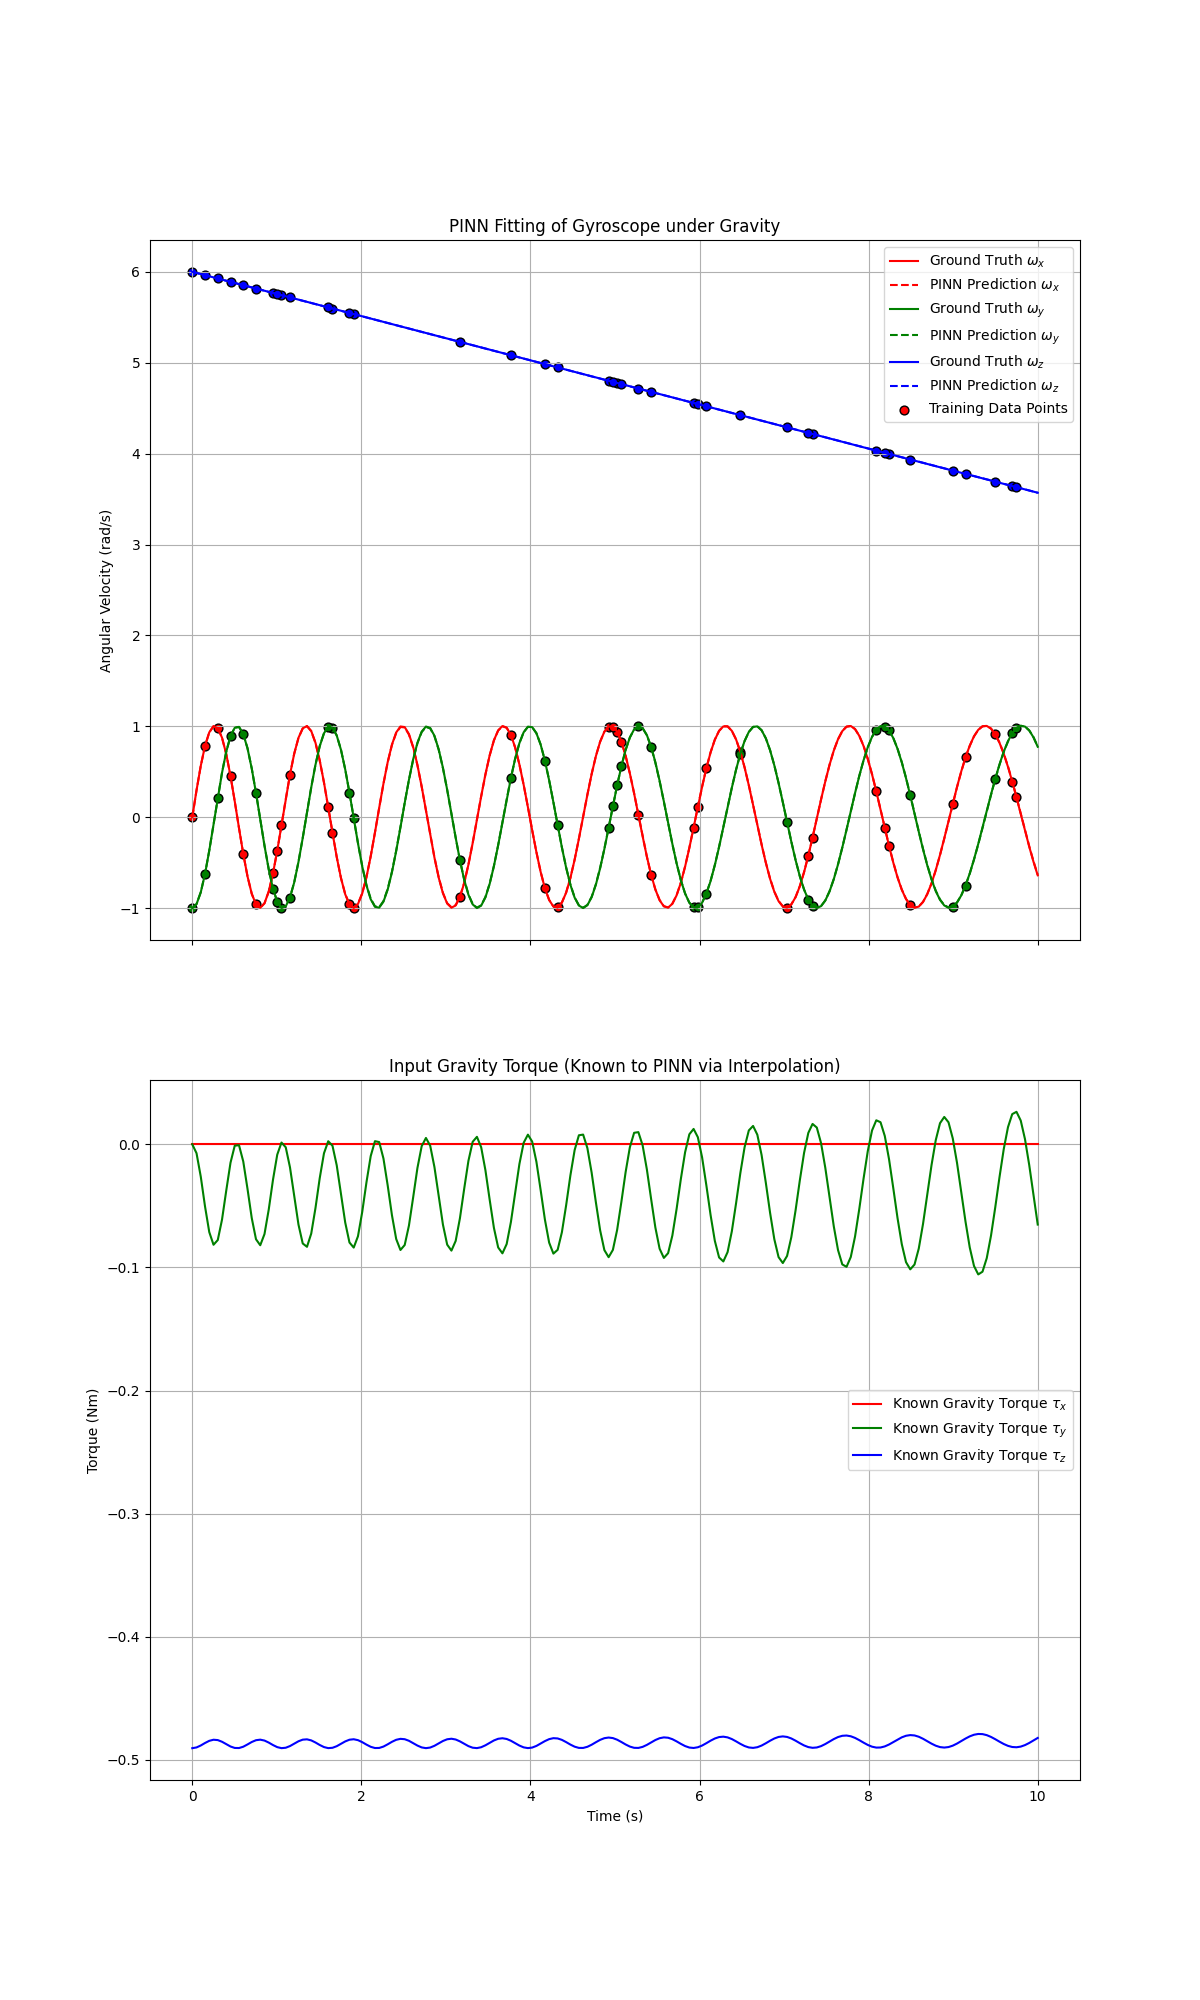
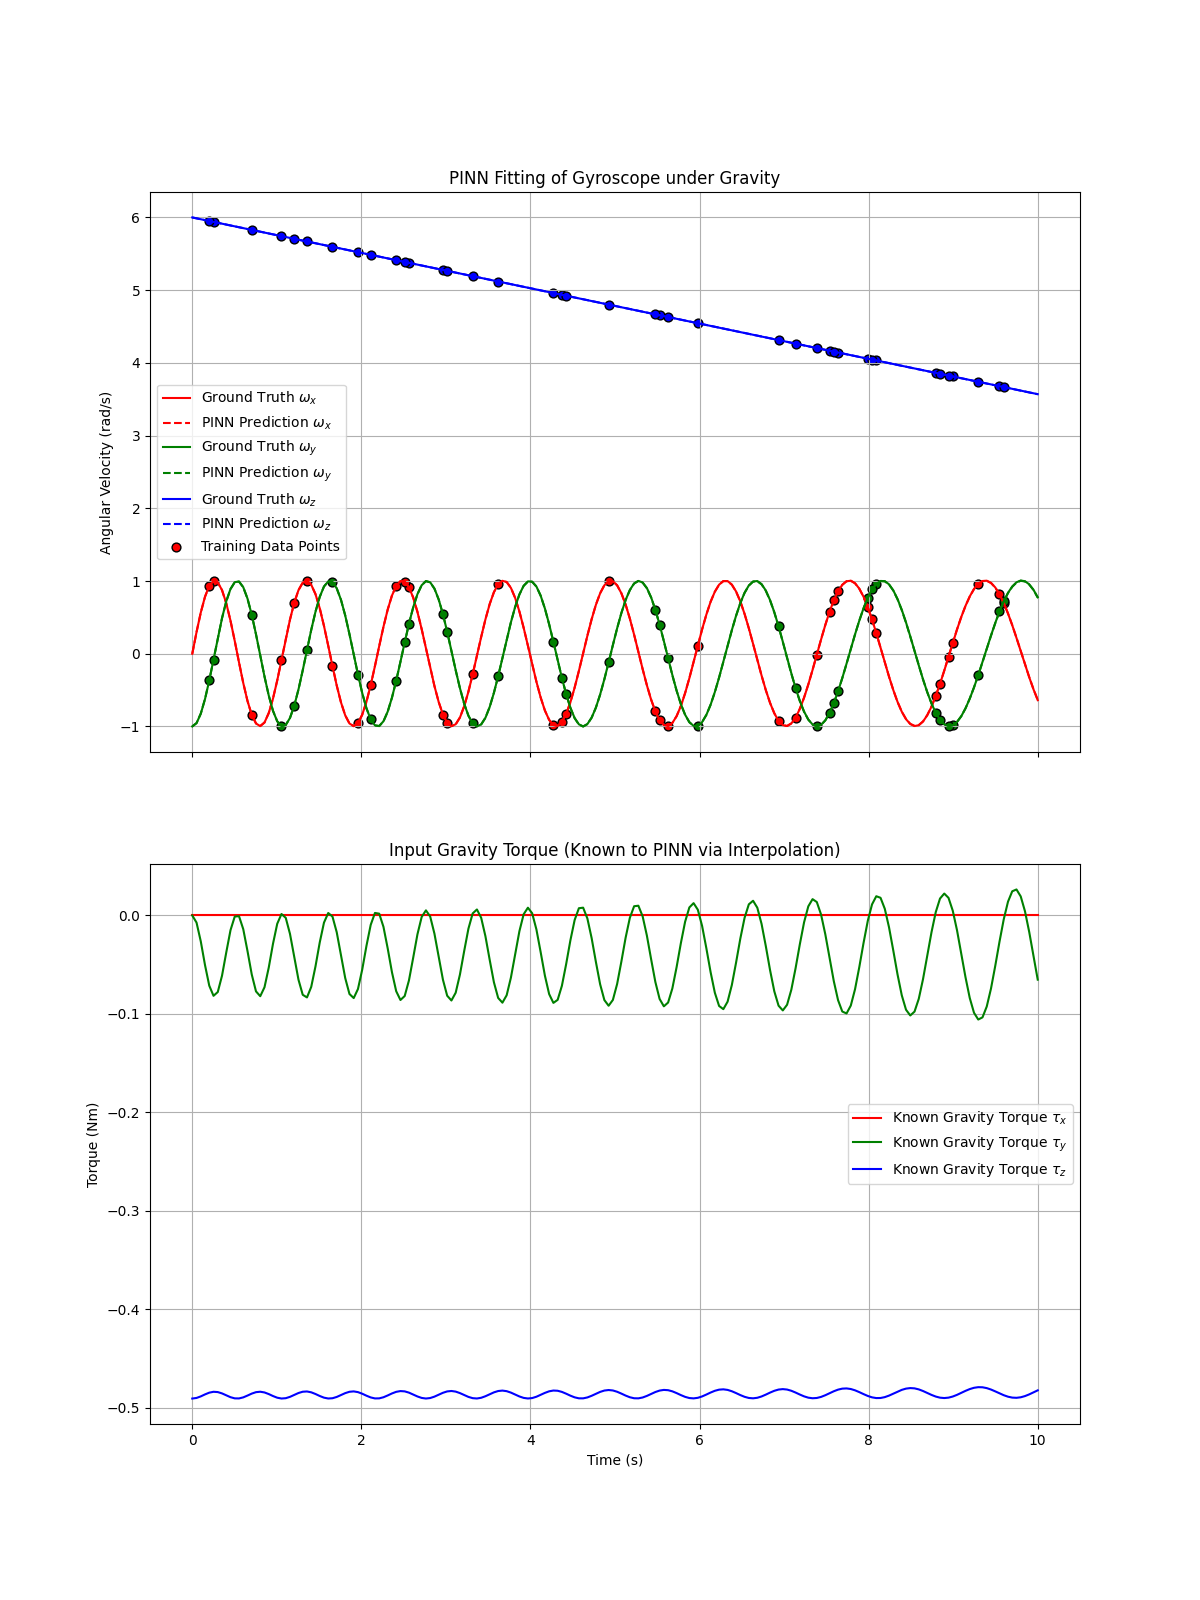
update

diff --git a/model_fitting_PINNs/gyro_fitting_inertia.py b/model_fitting_PINNs/gyro_fitting_inertia.py
@@ -17,7 +17,7 @@ I_true_torch = torch.tensor([I_x, I_y, I_z], device=device, dtype=torch.float32)
 
 MASS = 0.5
 GRAVITY_ACCEL = -9.81
-r_cm_body = np.array([0.0, 0.1, 0.1])
+r_cm_body = np.array([0.1, 0.0, 0.0])
 g_lab = np.array([0.0, 0.0, GRAVITY_ACCEL])
 
 
@@ -57,7 +57,7 @@ def full_dynamics(t, y, Ix, Iy, Iz, m, g_vec_lab, r_cm):
     
     return np.concatenate((dw_dt, dq_dt))
 
-w0 = np.array([5.0, 1.0, 1.0])
+w0 = np.array([3.0, 1.0, 1.0])
 q0 = np.array([1.0, 0.0, 0.0, 0.0])
 y0 = np.concatenate((w0, q0))
 
